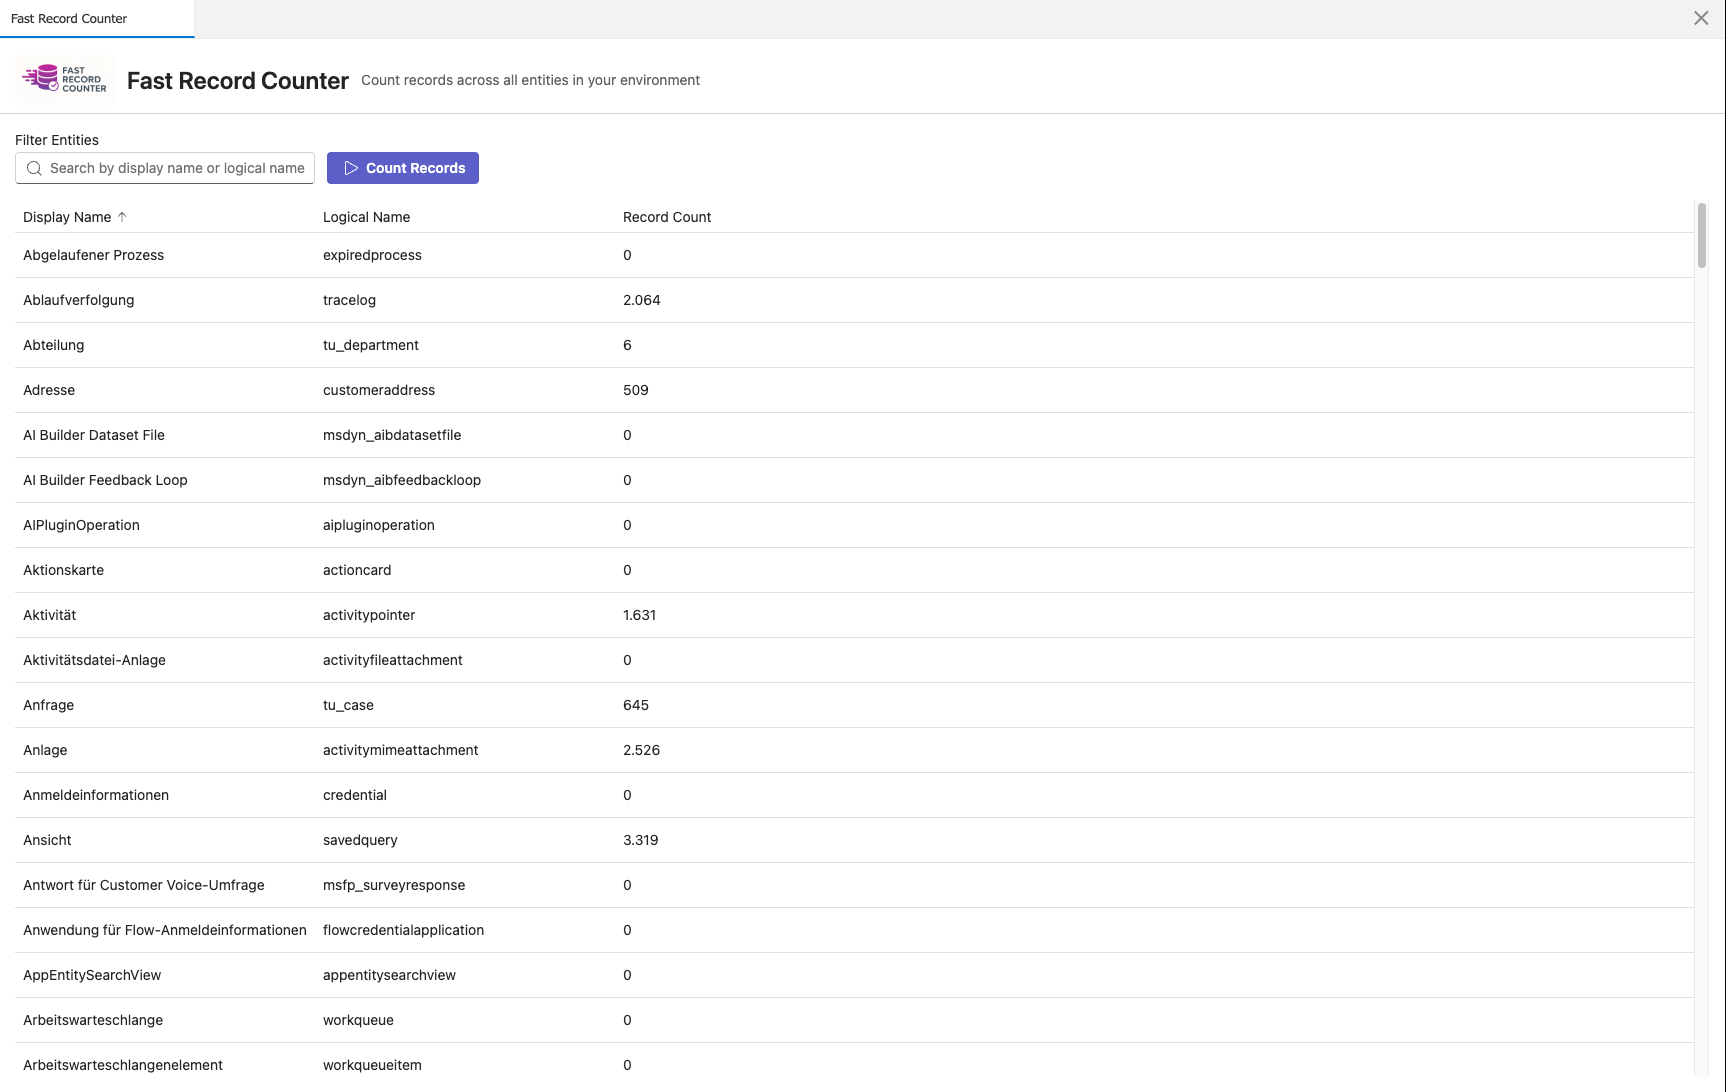
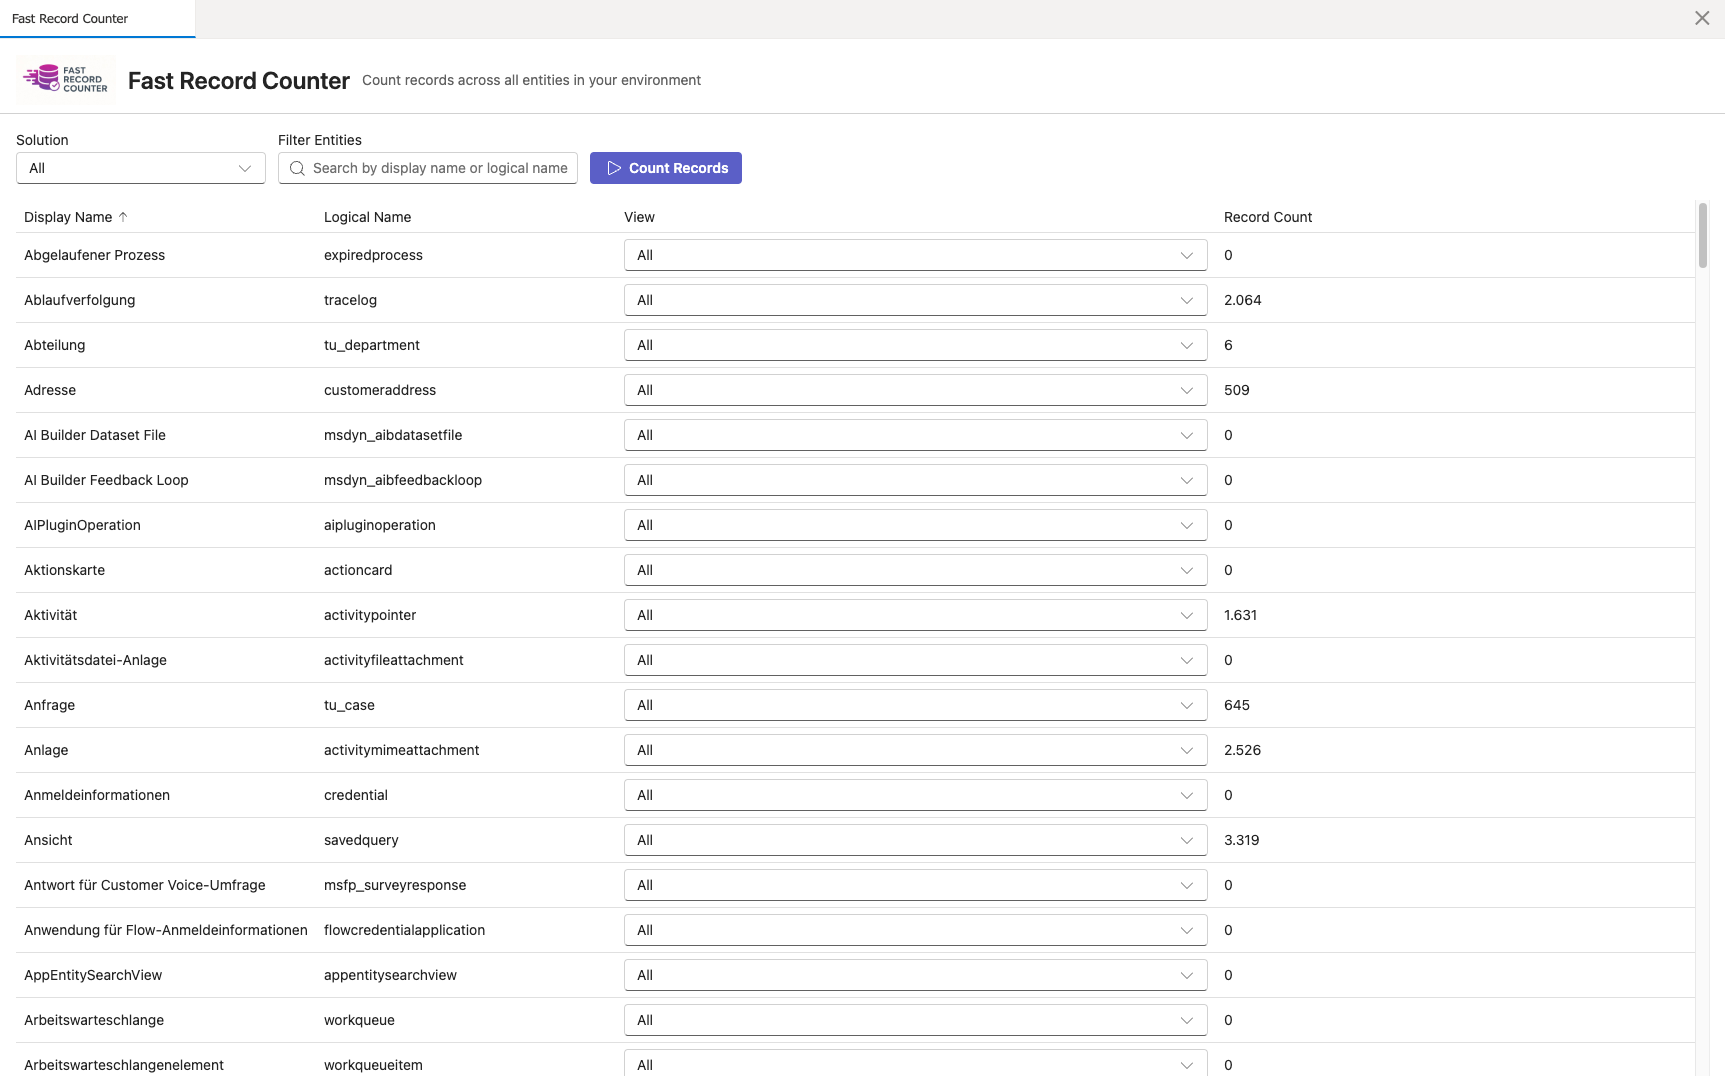
filter bugfix

diff --git a/src/components/EntitiesDataGrid.tsx b/src/components/EntitiesDataGrid.tsx
@@ -11,6 +11,7 @@ import {
   tokens,
   Dropdown,
   Option,
+  Spinner,
 } from "@fluentui/react-components";
 import type {
   DataGridProps,
@@ -131,7 +132,7 @@ export const EntitiesDataGrid = (props: IEntitiesDataGridProps): JSXElement => {
             selectedOptions={[item.selectedViewId || ALL_VALUE]}
             onOptionSelect={handleViewChange}
             className={styles.viewDropdown}
-            size="small"
+            size="medium"
           >
             <Option key="all" value={ALL_VALUE}>
               All
@@ -154,14 +155,26 @@ export const EntitiesDataGrid = (props: IEntitiesDataGridProps): JSXElement => {
         return aCount - bCount;
       },
       renderHeaderCell: () => {
-        return <div style={{ textAlign: 'right' }}>Record Count</div>;
+        return <div style={{ textAlign: "right" }}>Record Count</div>;
       },
       renderCell: (item: Entity) => {
         if (item.isLoading) {
-          return <div style={{ textAlign: 'right' }}>Loading...</div>;
+          return (
+            <div
+              style={{
+                display: "flex",
+                justifyContent: "flex-end",
+                alignItems: "center",
+                gap: "8px",
+              }}
+            >
+              <Spinner size="tiny" />
+              <span>Progressing...</span>
+            </div>
+          );
         }
         return (
-          <div style={{ textAlign: 'right' }}>
+          <div style={{ textAlign: "right" }}>
             {item.recordCount !== undefined
               ? item.recordCount.toLocaleString()
               : "-"}

diff --git a/src/components/Filter.tsx b/src/components/Filter.tsx
@@ -18,6 +18,7 @@ import { Solution } from "../types/solution";
 export interface IFilterProps {
   solutions: Solution[];
   selectedSolutionId: string | undefined;
+  textFilter: string;
   onSolutionFilterChanged: (solutionId: string | undefined) => void;
   onTextFilterChanged: (searchText: string) => void;
   onCountRecords: () => void;
@@ -107,6 +108,7 @@ export const Filter = (props: IFilterProps): JSXElement => {
         <SearchBox
           id={searchInputId}
           placeholder="Search by display name or logical name..."
+          value={props.textFilter}
           onChange={onTextFilterChange}
           className={styles.searchInput}
         />

diff --git a/src/components/Overview.tsx b/src/components/Overview.tsx
@@ -272,6 +272,7 @@ export const Overview: React.FC<IOverviewProps> = ({ connection }) => {
             <Filter
               solutions={solutions}
               selectedSolutionId={selectedSolutionId}
+              textFilter={textFilter}
               onSolutionFilterChanged={(solutionId: string | undefined) => {
                 logger.info(
                   `Solution filter changed to: ${solutionId || "All"}`
